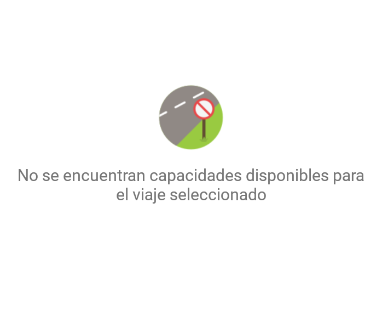
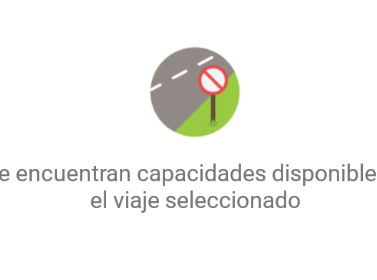
codigo ok optimizado para full hd -sonido de notificacion -concurrencia -todo controlado por el main

Changed region(s): [[0.0, 0.1429, 1.0, 0.6571], [0.2334, 0.6857, 0.817, 0.7714]]

diff --git a/main.py b/main.py
@@ -1,10 +1,12 @@
+from numpy import var
+
 from selectInputFechaIda import select_input_fecha
 from selectMonth import select_month
 from selectDay import select_day
 from selectAsiento import select_asiento, select_asiento_varios
 from pyautogui import sleep, prompt
-from utils import clickButton, checkLoading, checkStay, slideScreen, resizeWindow, locateAllOnScreen, region, center, click
-import keyboard
+from utils import clickButton, checkLoading, checkStay, slideScreen, resizeWindow
+import keyboard, random
 
 
 def refresh_fecha(month, day):
@@ -58,33 +60,47 @@ def step_2_select_viaje():
         if loading is False:
             iscapacity, pos = checkStay(noCapacity)
             if iscapacity:
-                print('No hay ni pinga socio, claro si vives en el pais de pinga este....!')
-                # hacer ciclo para volver al inicio
+                # print('No hay ni pinga socio, claro si vives en el pais de pinga este....!')
+                print('No hay pasajes....!')
+                return False
             else:
                 if select_omnibus():
                     return True
     return False
 
 
-def step_3_select_asiento(varios: bool = False, cantidad : int = 2):
+def step_3_select_asiento(varios: bool = False, concurency: bool = False,  cantidad : int = 2):
     print("Step 3", varios, cantidad)
-    return select_asiento_varios(cantidad) if varios else select_asiento()
+    return select_asiento_varios(concurency, cantidad) if varios else select_asiento()
 
 
-def main():
-    month = 'Noviembre'
-    window = 'Nox'
-    day = prompt(text="", title="Entre el dia a buscar.")
+def main_aux(repesca: bool, concurency: bool, varios:bool, aleatory: bool, cantidad: int):
+    is_capacity = step_2_select_viaje()
+    if is_capacity:
+        slideScreen()
+        step_3_select_asiento(varios, concurency, cantidad)
+    else:
+        if repesca:
+            timer = random.randrange(10, 61) if aleatory else 0
+            print("Refrescar en: " + str(timer))
+            sleep(timer)
+            btnAtras = "./parts/buttons/btnAtras.png"
+            clickButton(btnAtras)
+            checkLoading()
+            main(repesca, concurency, varios, aleatory, cantidad)
 
-    if day is not None:
-        resizeWindow(window)
+def main(repesca: bool = False, concurency: bool = False, varios: bool = False, aleatory: bool = False, cantidad:int = 2):
+    if repesca:
+        main_aux(repesca, concurency, varios, aleatory, cantidad)
+    else:
+        month = 'Noviembre'
+        day = prompt(text="", title="Entre el dia a buscar.")
+        if day is not None:
+            step_1_select_day(month, day)
+            main_aux(repesca, concurency, varios, aleatory, cantidad)
 
-        is_day = step_1_select_day(month, day)
-
-        is_capacity = step_2_select_viaje()
-        if is_capacity:
-            slideScreen()
-            step_3_select_asiento(True, 6)
 
 if __name__ == '__main__':
-    main()
+    window = 'Nox'
+    resizeWindow(window)
+    main(repesca=True, concurency=True, varios=True, aleatory=True, cantidad=4)

diff --git a/selectAsiento.py b/selectAsiento.py
@@ -1,4 +1,5 @@
 from utils import click, checkLoading, checkStay, sleep, distancy_between_points, locateAllOnScreen, region, center
+from playsound import playsound
 
 def select_asiento():
     asientoVacio = "./parts/asientos/asientov.png"
@@ -24,25 +25,49 @@ def select_asiento():
     return False
 
 
-def select_asiento_varios(cantidad:int = 1):
+def select_varios_aux():
+    pass
+
+def select_asiento_varios(concurency: bool, cantidad: int):
     asientoVacio = "./parts/asientos/asientov.png"
-    btnSiguiente = "./parts/buttons/siguiente.png"
+    btnSiguiente = "./parts/buttons/btnSiguiente.png"
 
     vacios = list(locateAllOnScreen(asientoVacio, region=region, confidence=0.9))
-    cantidad = cantidad if (len(vacios) > cantidad) else len(vacios)
+    total = restart = len(vacios)
+    cantidad = cantidad if (total > cantidad) else total
 
-    while cantidad > 0:
-        cantidad -= 1
-        position = center(vacios[cantidad])
-        click(position)
-        if checkLoading() is False:
-            sleep(0.1)
+    if concurency:
+        next = True
+        ciclos = 2
+        while next:
+            print(cantidad, total, next, restart, ciclos)
+            total -= 1
+            position = center(vacios[total])
+            click(position)
+            if checkLoading() is False:
+                sleep(0.1)
+            next, nextPosition = checkStay(btnSiguiente)
+            if next:
+                cantidad -= 1
+            if total == 0:
+                total == restart
+                ciclos -= 1
+            if cantidad == 0 or ciclos == 0:
+                next = False
 
+    else:
+        while cantidad > 0:
+            cantidad -= 1
+            position = center(vacios[cantidad])
+            click(position)
+            if checkLoading() is False:
+                sleep(0.1)
     if checkLoading() is False:
         next, nextPosition = checkStay(btnSiguiente)
         if next:
             click(nextPosition)
             print('Urra, tenemos pasaje................')
+            playsound("C:/Users/CHANG/WORK/automatizar-viajando-main/parts/notificacion.wav")
             return True
 
     return False

diff --git a/utils.py b/utils.py
@@ -6,7 +6,7 @@ import win32api
 import pygetwindow
 import math
 
-region = (926, 3, 435, 734)
+region = (1328, 0, 594, 1017)
 
 def click(position):
     win32api.SetCursorPos(position)
@@ -57,14 +57,14 @@ def checkStay(imagen: str):
 def slideScreen():
     print('Slide...')
     sleep(0.1)
-    pag.moveTo(1130, 700, duration=0.1)
-    pag.dragTo(1124, 445, button='left', duration=0.1)
+    pag.moveTo(1610, 970, duration=0.1)
+    pag.dragTo(1610, 570, button='left', duration=0.1)
     sleep(0.15)
 
 def resizeWindow(nameWindow):
     win = pygetwindow.getWindowsWithTitle(nameWindow)[0]
-    win.moveTo(926, 3)
-    win.size = (435, 734)
+    win.moveTo(1328, 0)
+    win.size = (594, 1017)
     return True
 
 def distancy_between_points(p1, p2):

diff --git a/eee.py b/eee.py
@@ -35,7 +35,9 @@ from utils import *
 # win.size = (435, 734)
 # win = pag.getWindowsWithTitle('Nox')
 # print(win[0])
+# resizeWindow('Nox')
 # region = pag.getWindowsWithTitle('Nox')[0]
+# print(region)
 # region = (region.left, region.top, region.width, region.height)
 # print(region)
 print(pag.mouseInfo())
